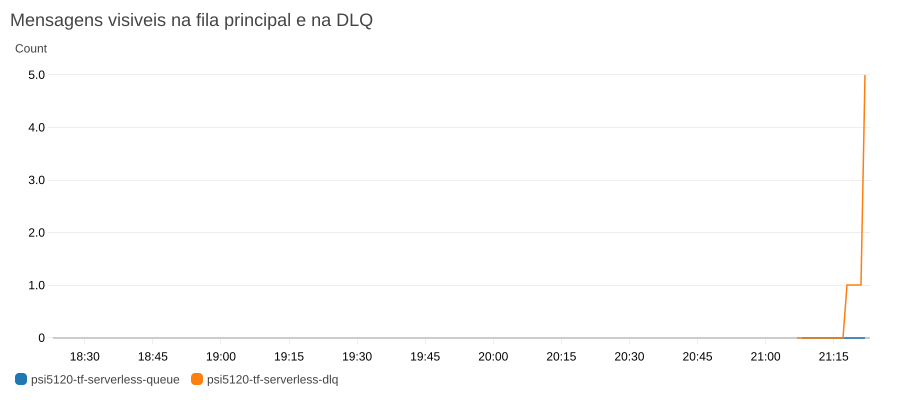
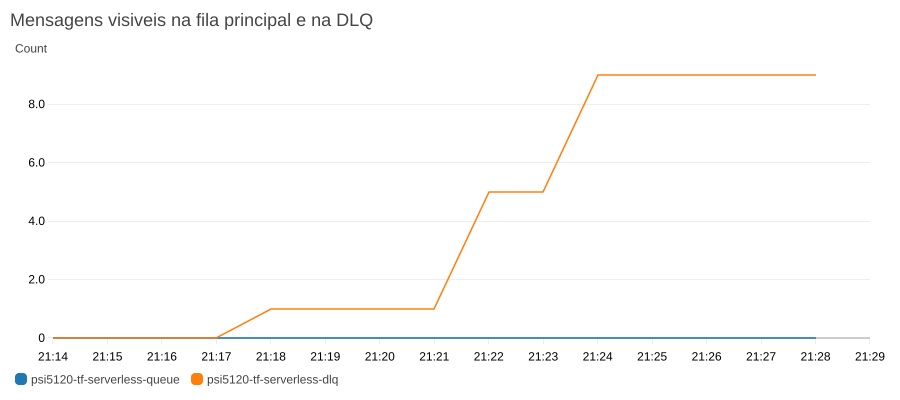
Fix time window on E8 dashboard widget images (events were bunched at edge)
get-metric-widget-image defaults to a wide time range when start/end
are omitted, compressing the actual test activity into one corner of
the chart. Pin explicit start/end per capture and add a follow-up
round of test events to populate the custom-metric widget with all
three outcome types.

diff --git a/evidencias/screenshots/E8_dashboard.md b/evidencias/screenshots/E8_dashboard.md
@@ -27,3 +27,19 @@ e na cópia embutida em `infra/template.yaml`, seguido de um redeploy da stack (
 função `consumer` foi atualizada). Confirmado com `aws cloudwatch get-metric-statistics`
 filtrando só por `Resultado` antes de regerar a imagem acima. Ver `docs/DECISIONS.md`
 para o registro completo desta decisão.
+
+## Sobre a janela de tempo das imagens
+
+`get-metric-widget-image` não recebe uma janela padrão útil quando `start`/`end` não são
+informados (usa um intervalo amplo, deixando os eventos do teste concentrados numa ponta
+do gráfico). As imagens finais usam `start`/`end` explícitos, enquadrando exatamente o
+período de cada rodada de teste:
+
+- `E8_dashboard_lambdas.png` e `E8_dashboard_filas.png`: 2026-09-27T21:14Z – 21:29Z
+  (Passos 4 e 5 originais).
+- `E8_dashboard_metrica_custom.png`: 2026-09-27T22:23Z – 22:26Z (rodada adicional feita
+  após a correção do bug de dimensão, para popular o widget com os 3 tipos de resultado).
+  Note que `gravado` e `duplicata_idempotente` caem no mesmo bucket de 60s e por isso
+  aparecem sobrepostos visualmente — confirmado via `get-metric-statistics` que os dois
+  pontos existem de fato (1 cada), a sobreposição é só uma coincidência de timing entre
+  chamadas de teste manuais disparadas em sequência rápida, não um erro nos dados.
